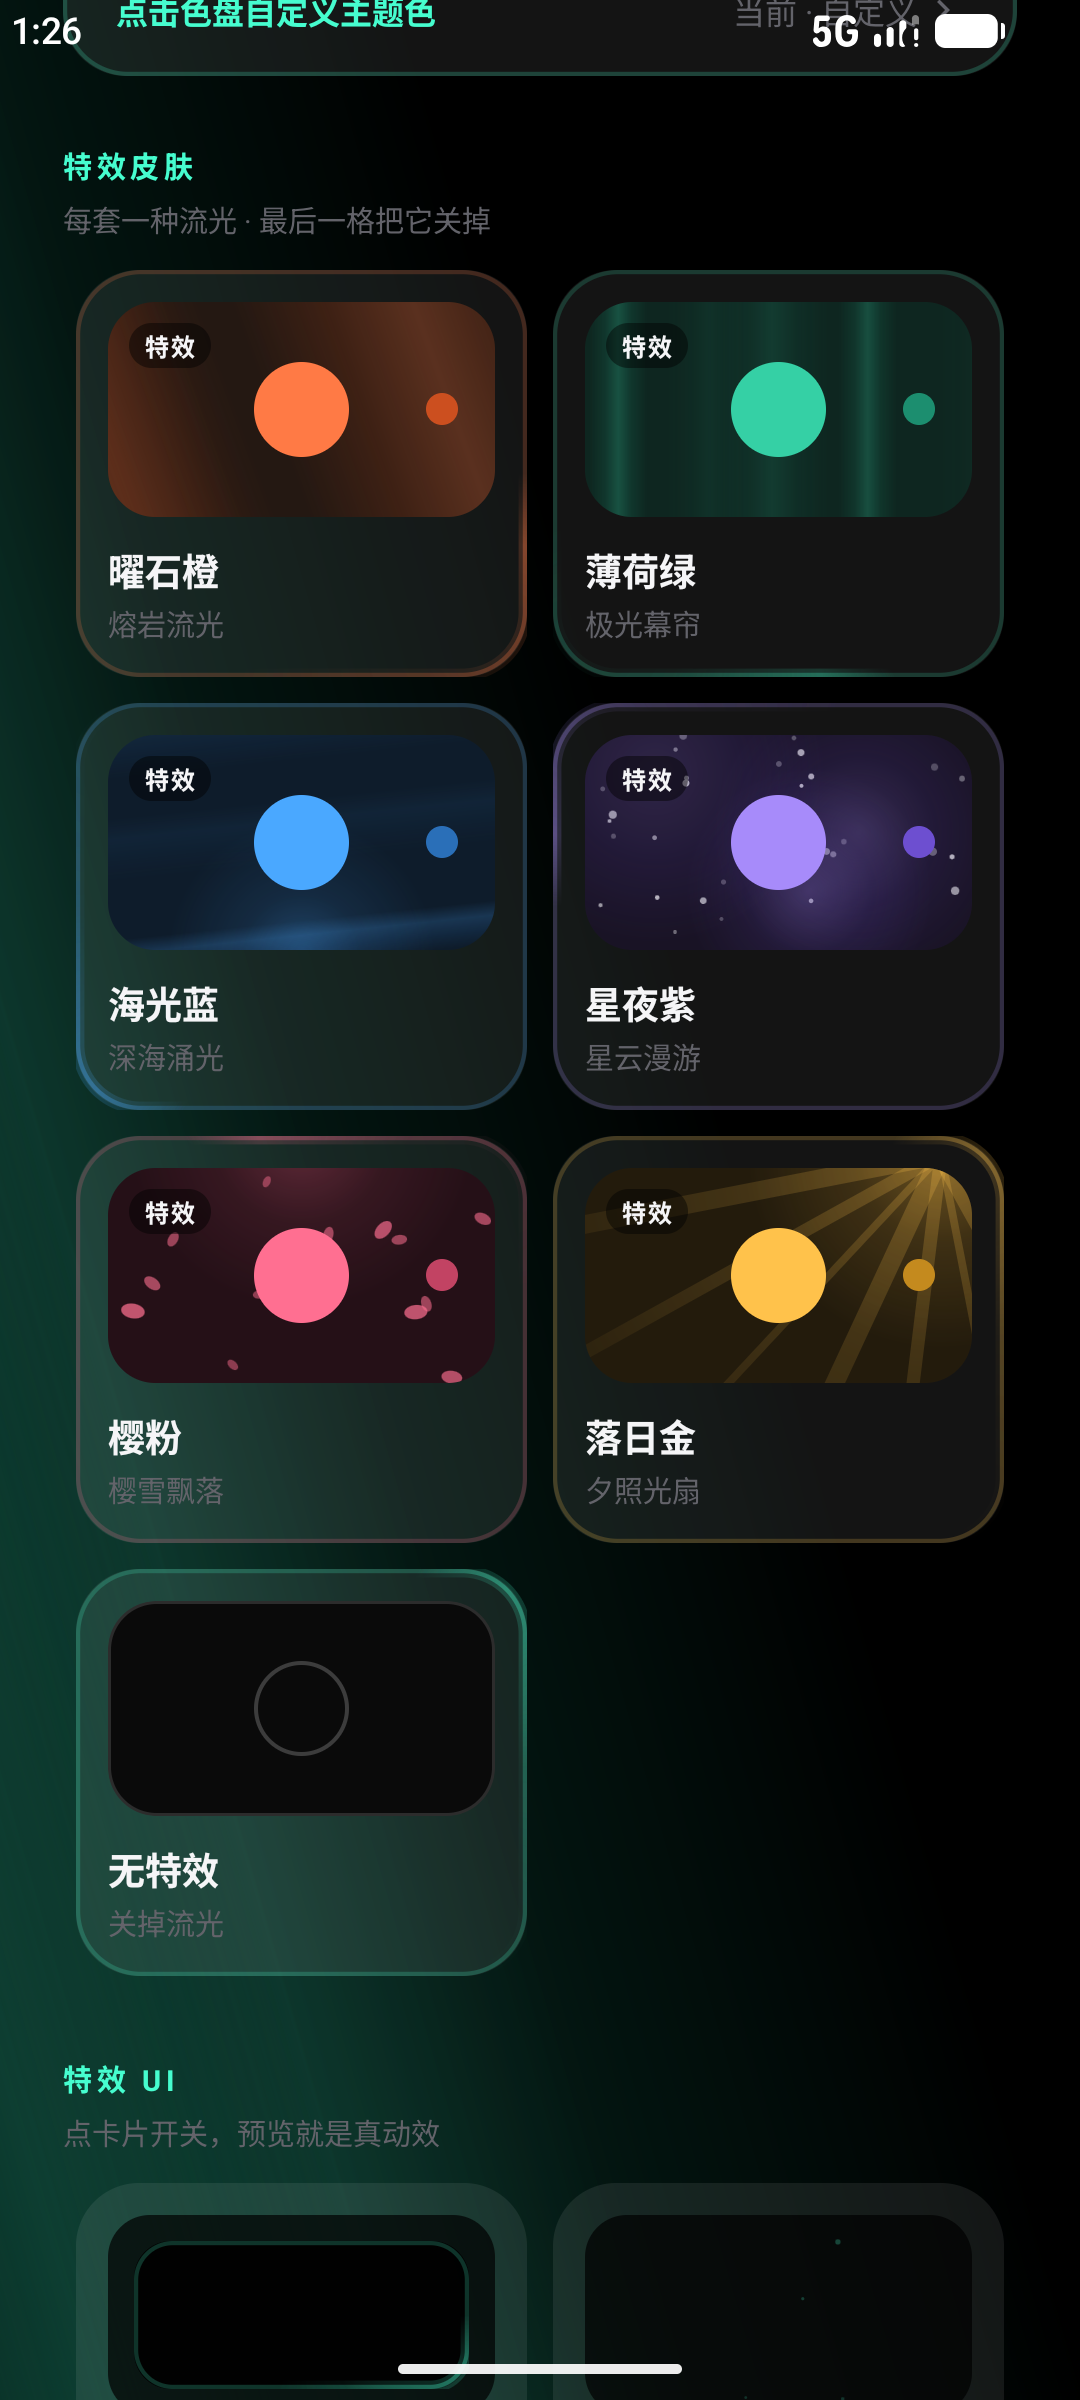
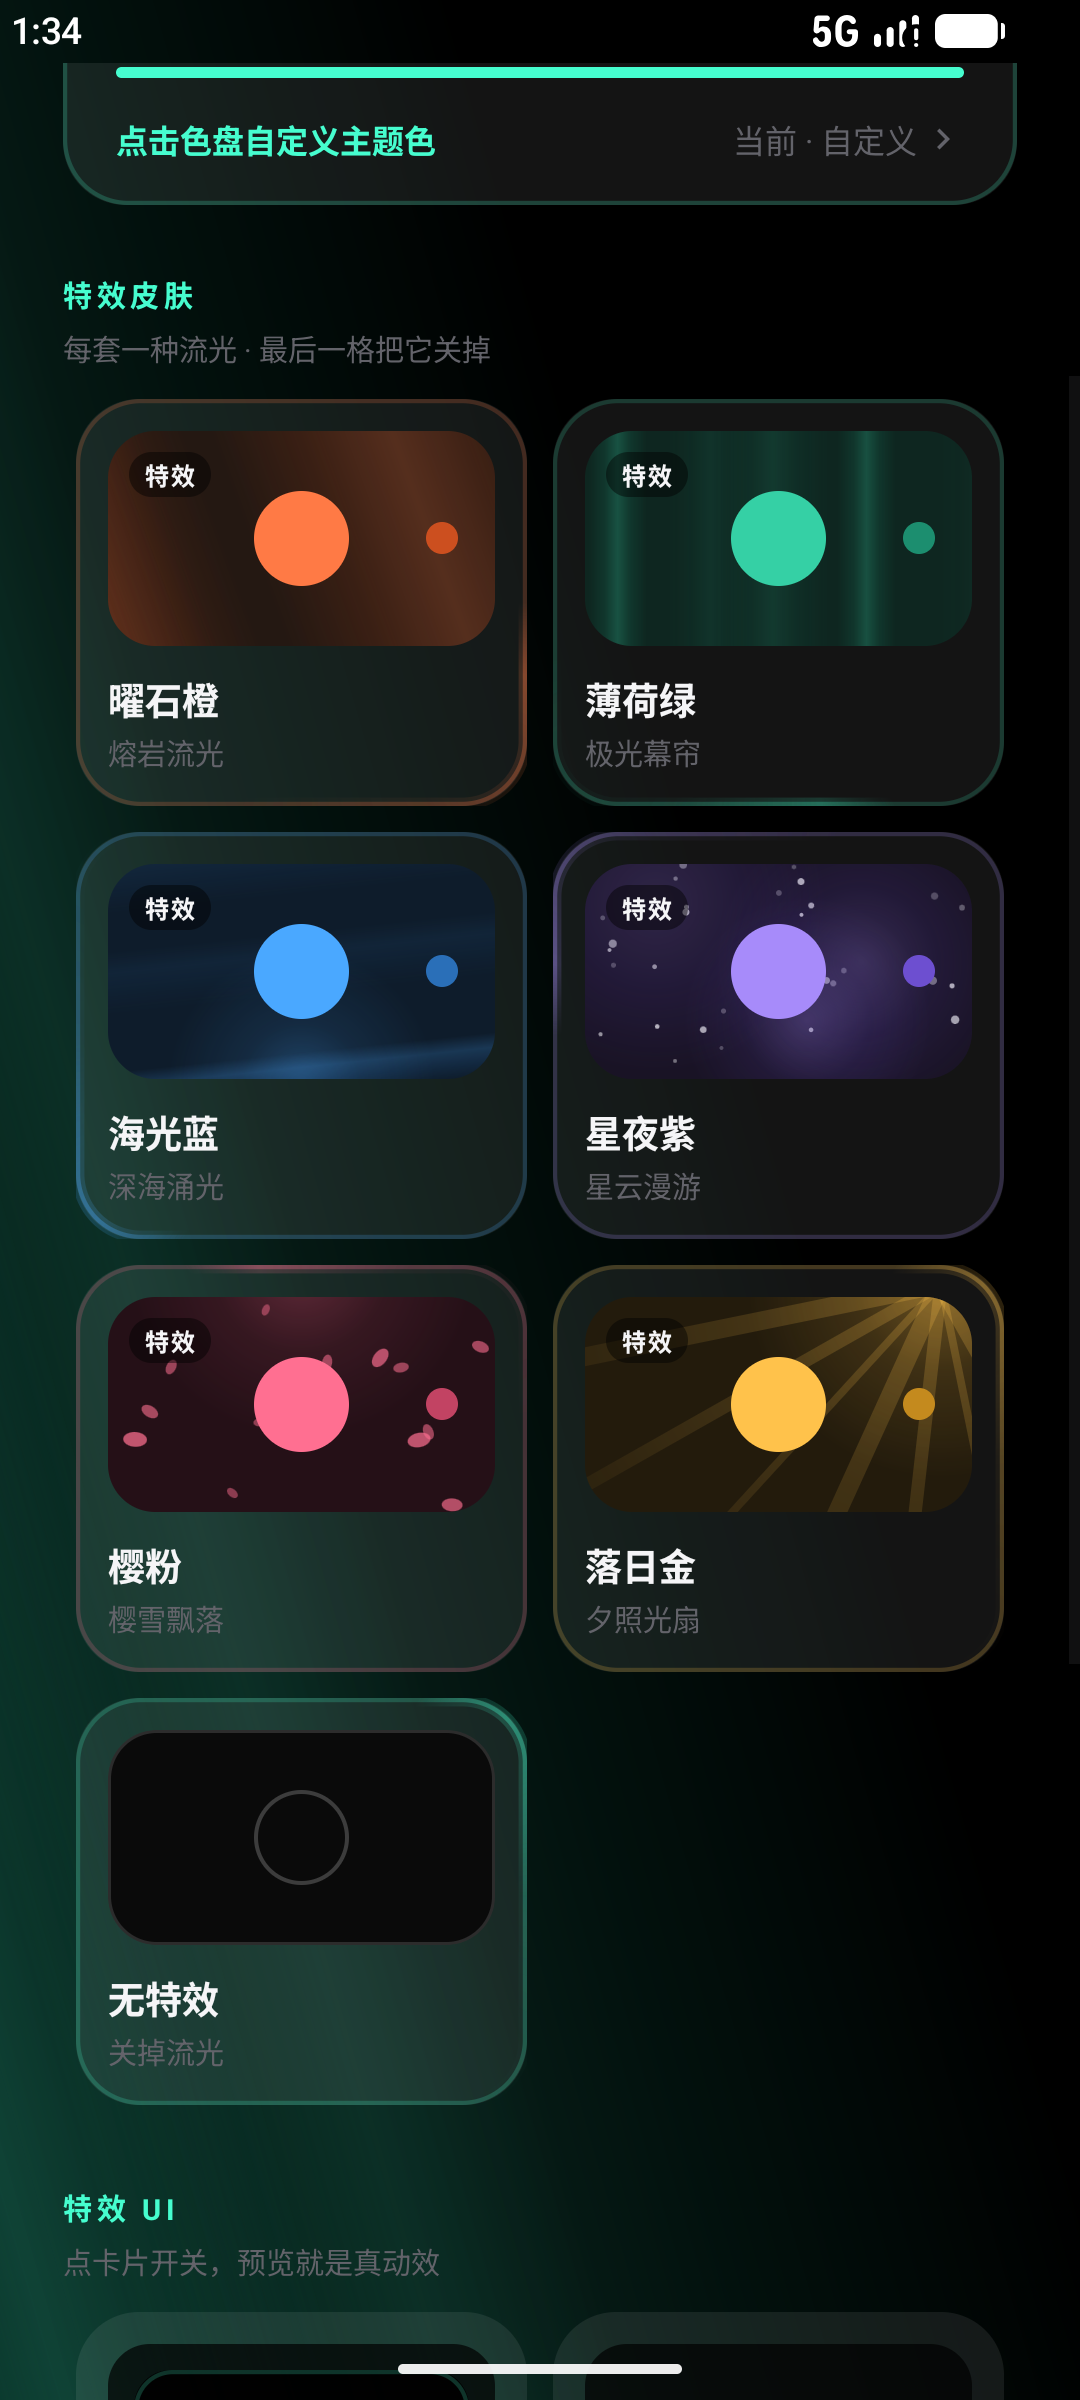
feat: ui市场与marginbox顶部界面布局调整

diff --git a/app/src/main/java/com/example/alarmclock4jacw/SystemBars.java b/app/src/main/java/com/example/alarmclock4jacw/SystemBars.java
@@ -1,0 +1,59 @@
+package com.example.alarmclock4jacw;
+
+import android.view.View;
+import android.view.ViewGroup;
+
+import androidx.core.graphics.Insets;
+import androidx.core.view.ViewCompat;
+import androidx.core.view.WindowInsetsCompat;
+
+/**
+ * 系统栏间距。
+ *
+ * targetSdk 35 起 Android 15 强制 edge-to-edge：主题里的 {@code statusBarColor} 直接被忽略，
+ * 窗口内容一路铺到状态栏底下。所以「铺满全屏的滚动容器」必须自己把状态栏高度让出来，
+ * 否则滚动时标题、副标题会直接压在状态栏的时钟上。
+ *
+ * 老系统上 decor 已经把 inset 吃掉了，这里拿到的是 0，布局里写死的间距照旧生效。
+ */
+public final class SystemBars {
+
+    private SystemBars() {
+    }
+
+    /**
+     * 铺满全屏的滚动容器：顶部让出状态栏，并且把 {@code clipToPadding} 打开 ——
+     * 只有裁剪到 padding 边界，滚上去的内容才会在状态栏下沿被切掉，而不是继续压在时钟上。
+     */
+    public static void insetTop(View scroll) {
+        padTop(scroll, 0f);
+        if (scroll instanceof ViewGroup) {
+            ((ViewGroup) scroll).setClipToPadding(true);
+        }
+    }
+
+    /**
+     * 固定在顶部的标题栏：让出状态栏，并保证栏下至少留 {@code minGapDp}。
+     *
+     * 取 {@code max(布局里的 paddingTop, 状态栏 + minGap)}：本机 edge-to-edge 时走后者，
+     * 老系统（inset = 0）走前者，两种情况下视觉间距都不会塌。
+     */
+    public static void addTop(View view, float minGapDp) {
+        padTop(view, minGapDp);
+    }
+
+    private static void padTop(View view, float minGapDp) {
+        if (view == null) return;
+        final int base = view.getPaddingTop();
+        final int gap = Math.round(minGapDp * view.getResources().getDisplayMetrics().density);
+
+        ViewCompat.setOnApplyWindowInsetsListener(view, (v, insets) -> {
+            Insets bars = insets.getInsets(
+                    WindowInsetsCompat.Type.systemBars() | WindowInsetsCompat.Type.displayCutout());
+            v.setPadding(v.getPaddingLeft(), Math.max(base, bars.top + gap),
+                    v.getPaddingRight(), v.getPaddingBottom());
+            return insets;
+        });
+        ViewCompat.requestApplyInsets(view);
+    }
+}

diff --git a/app/src/main/java/com/example/alarmclock4jacw/AlarmEditActivity.java b/app/src/main/java/com/example/alarmclock4jacw/AlarmEditActivity.java
@@ -57,6 +57,8 @@ public class AlarmEditActivity extends AppCompatActivity {
         super.onCreate(savedInstanceState);
         SkinStore.applyTheme(this);
         setContentView(R.layout.activity_edit_alarm);
+        // 全屏滚动：顶部让出状态栏，滚上去的内容在状态栏下沿裁掉
+        SystemBars.insetTop(findViewById(R.id.edit_scroll));
 
         SkinStore.applyFx(this.findViewById(R.id.flow_bg));
         FxStore.applyFlowBg(this, findViewById(R.id.flow_bg));

diff --git a/app/src/main/java/com/example/alarmclock4jacw/SkinMarketActivity.java b/app/src/main/java/com/example/alarmclock4jacw/SkinMarketActivity.java
@@ -80,6 +80,8 @@ public class SkinMarketActivity extends AppCompatActivity {
         super.onCreate(savedInstanceState);
         SkinStore.applyTheme(this);
         setContentView(R.layout.activity_skin_market);
+        // 全屏滚动：顶部让出状态栏，滚上去的内容在状态栏下沿裁掉
+        SystemBars.insetTop(findViewById(R.id.market_scroll));
 
         store = SkinStore.get(this);
         grid = findViewById(R.id.skin_grid);

diff --git a/app/src/main/java/com/example/alarmclock4jacw/MainActivity.java b/app/src/main/java/com/example/alarmclock4jacw/MainActivity.java
@@ -56,6 +56,8 @@ public class MainActivity extends AppCompatActivity {
         super.onCreate(savedInstanceState);
         SkinStore.applyTheme(this);
         setContentView(R.layout.activity_main);
+        // 标题栏固定在最上面，状态栏高度要自己让（Android 15 起强制 edge-to-edge）
+        SystemBars.addTop(findViewById(R.id.header_row), 12f);
 
         themeSignature = SkinStore.get(this).themeSignature();
 
